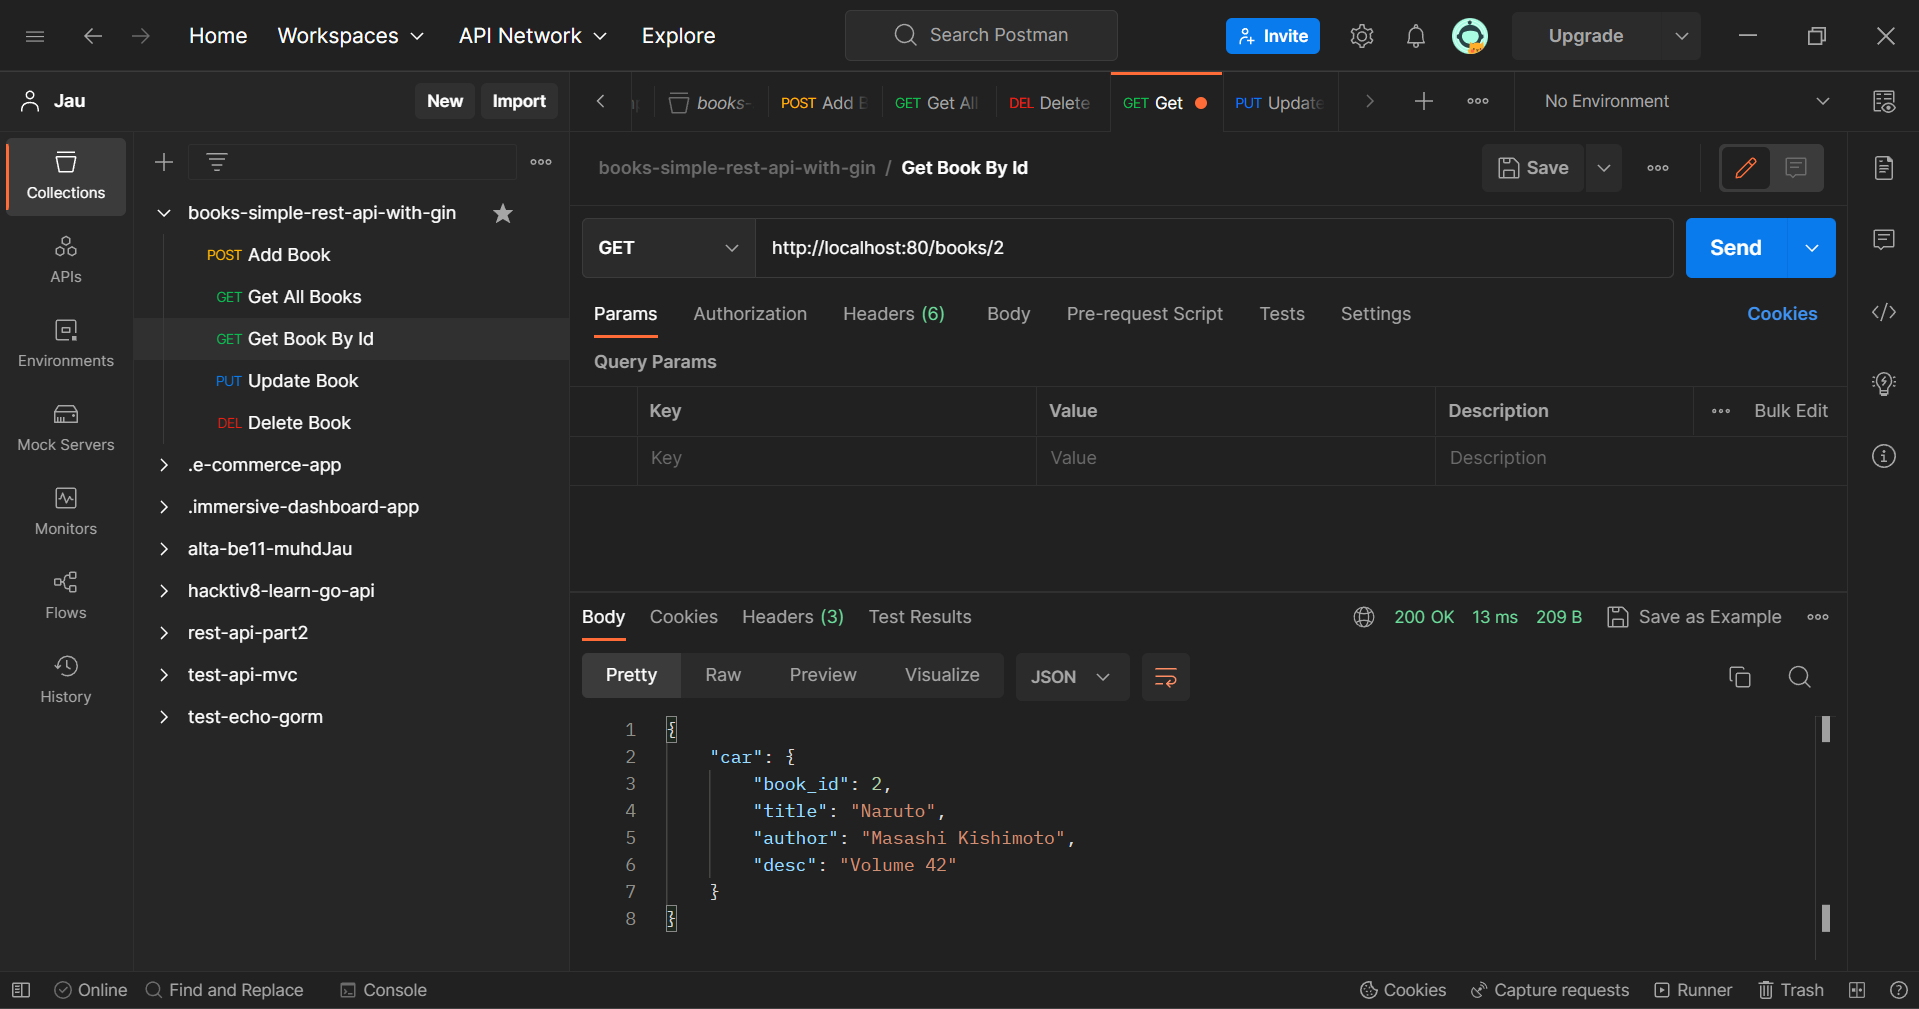
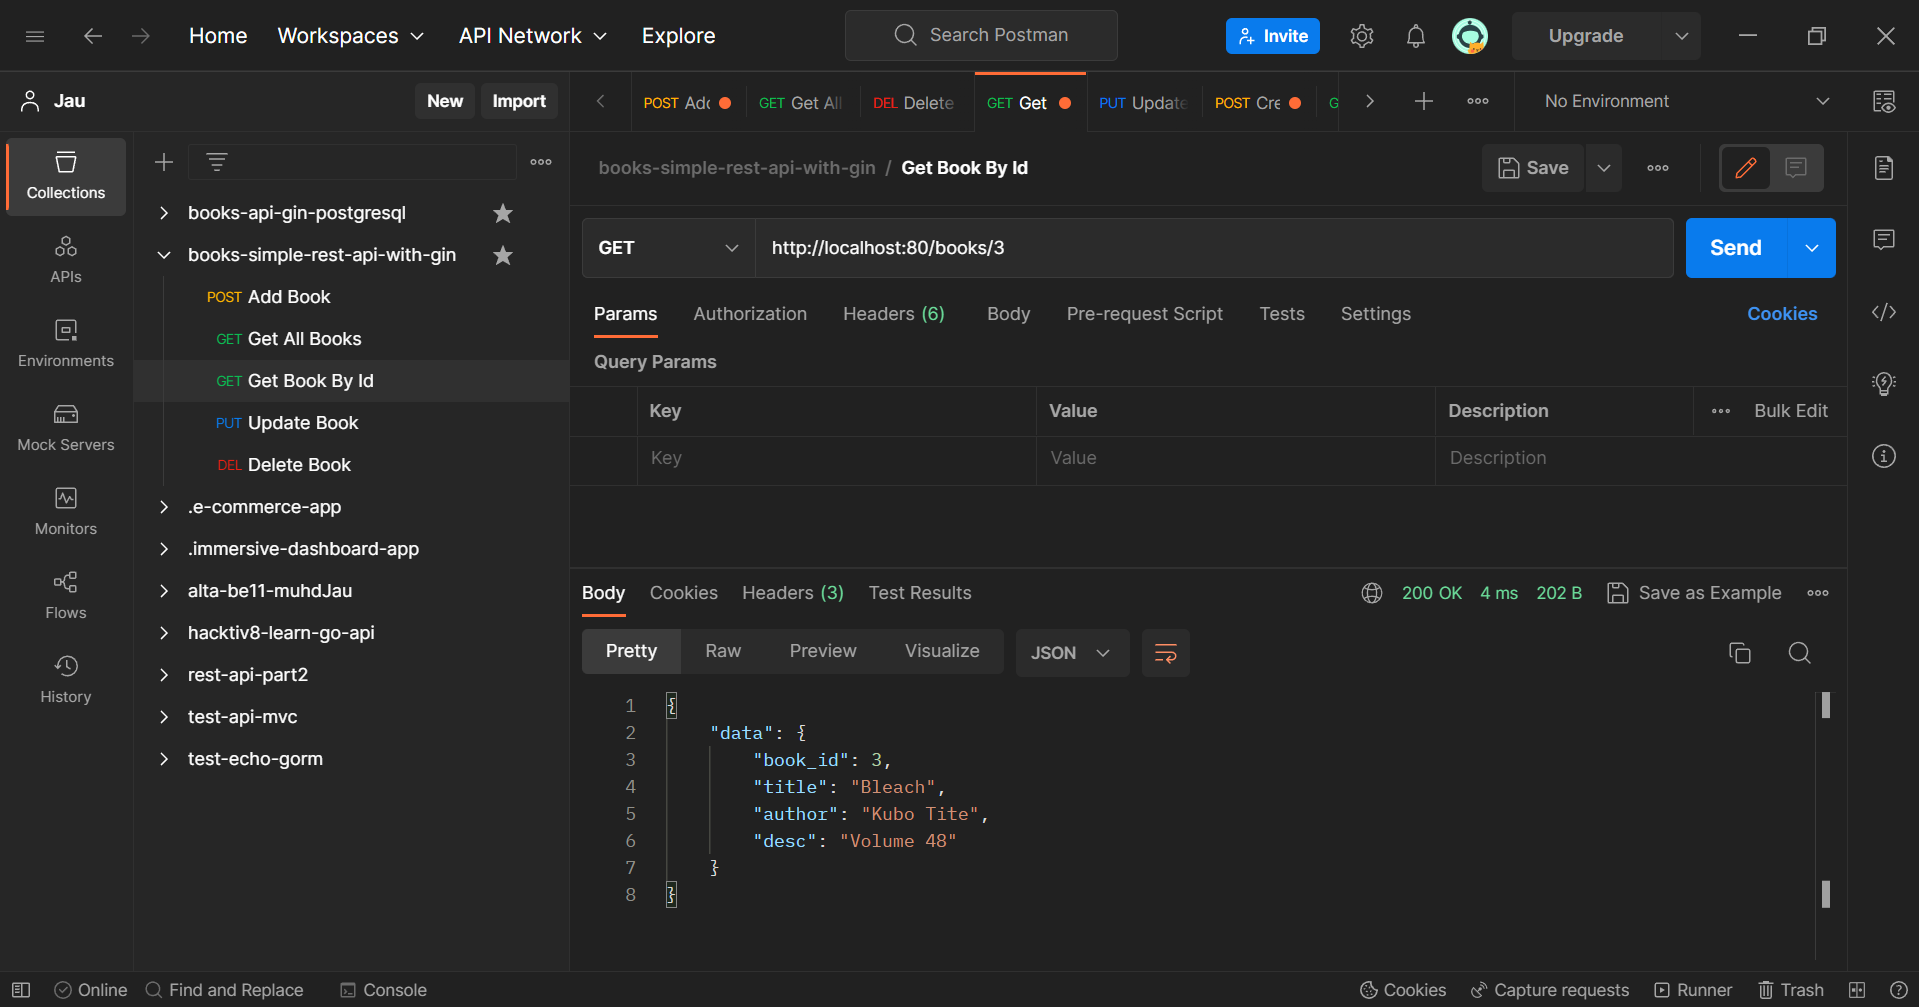
Init Commit

diff --git a/controllers/books.go b/controllers/books.go
@@ -29,7 +29,7 @@ func AddBook(c *gin.Context) {
 	BooksData = append(BooksData, newBook)
 
 	c.JSON(http.StatusCreated, gin.H{
-		"car": newBook,
+		"data": newBook,
 	})
 }
 
@@ -52,7 +52,7 @@ func GetAllBooks(c *gin.Context) {
 
 	c.JSON(http.StatusOK, gin.H{
 		// "books": AllDatas,
-		"books": Books,
+		"data": Books,
 	})
 }
 
@@ -73,13 +73,13 @@ func GetBookById(c *gin.Context) {
 	if !condition {
 		c.AbortWithStatusJSON(http.StatusNotFound, gin.H{
 			"error_status":  "Data not found",
-			"error_message": fmt.Sprintf("Car with id %v not found", bookID),
+			"error_message": fmt.Sprintf("Book with id %v not found", bookID),
 		})
 		return
 	}
 
 	c.JSON(http.StatusOK, gin.H{
-		"car": bookData,
+		"data": bookData,
 	})
 }
 
@@ -106,13 +106,13 @@ func UpdateBook(c *gin.Context) {
 	if !condition {
 		c.AbortWithStatusJSON(http.StatusNotFound, gin.H{
 			"error_status":  "Data not found",
-			"error_message": fmt.Sprintf("Car with id %v not found", bookID),
+			"error_message": fmt.Sprintf("Book with id %v not found", bookID),
 		})
 		return
 	}
 
 	c.JSON(http.StatusOK, gin.H{
-		"message": fmt.Sprintf("Car with id %v has been successfully updated", bookID),
+		"message": fmt.Sprintf("Book with id %v has been successfully updated", bookID),
 	})
 }
 
@@ -133,7 +133,7 @@ func DeleteBook(c *gin.Context) {
 	if !condition {
 		c.AbortWithStatusJSON(http.StatusNotFound, gin.H{
 			"error_status":  "Data not found",
-			"error_message": fmt.Sprintf("Car with id %v not found", bookID),
+			"error_message": fmt.Sprintf("Book with id %v not found", bookID),
 		})
 		return
 	}
@@ -143,6 +143,6 @@ func DeleteBook(c *gin.Context) {
 	BooksData = BooksData[:len(BooksData)-1]
 
 	c.JSON(http.StatusOK, gin.H{
-		"message": fmt.Sprintf("Car with id %v has been successfully deleted", bookID),
+		"message": fmt.Sprintf("Book with id %v has been successfully deleted", bookID),
 	})
 }
